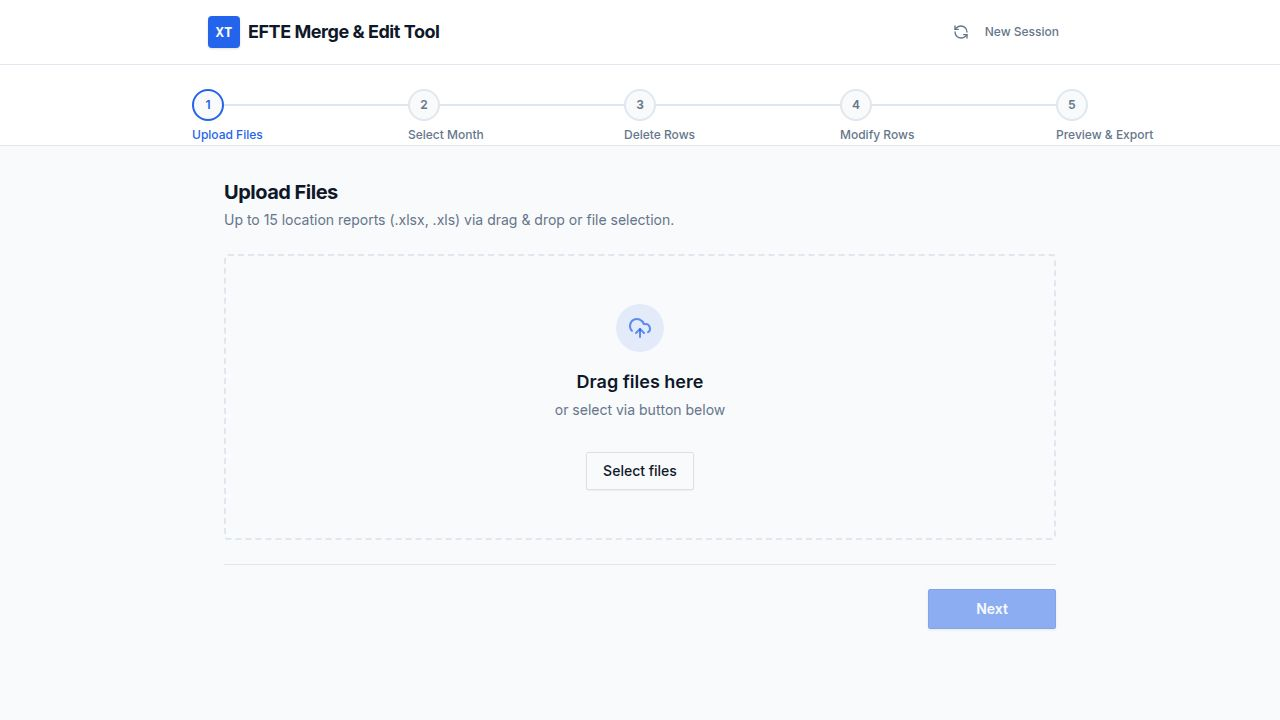
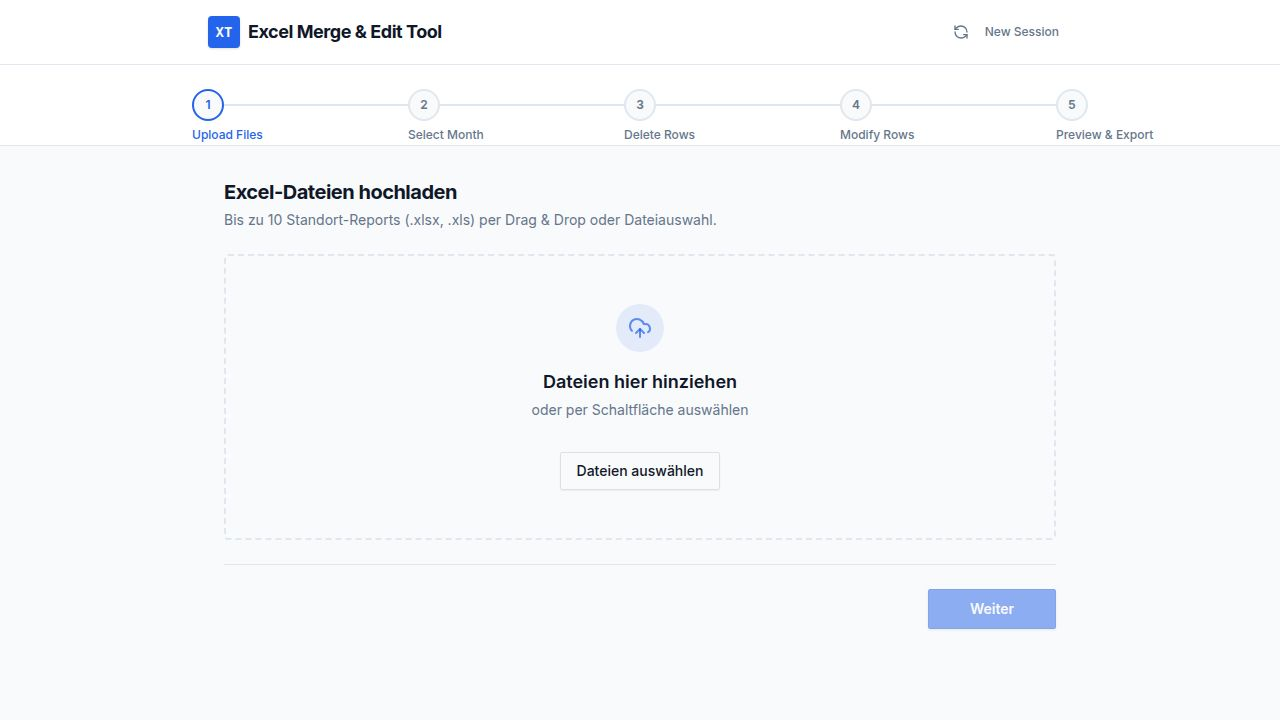
Restored to 'c005823ac366d2557e2f5bc7bdbd142439d67086'
Replit-Restored-To: c005823ac366d2557e2f5bc7bdbd142439d67086

diff --git a/artifacts/excel-tool/src/components/wizard/StepModifyRows.tsx b/artifacts/excel-tool/src/components/wizard/StepModifyRows.tsx
@@ -6,11 +6,6 @@ import { Plus, X, Calculator } from "lucide-react";
 import { Select, SelectContent, SelectItem, SelectTrigger, SelectValue } from "@/components/ui/select";
 import { Table, TableBody, TableCell, TableHead, TableHeader, TableRow } from "@/components/ui/table";
 
-interface RowLabel {
-  rowNumber: number;
-  label: string;
-}
-
 interface RowCurrentValue {
   rowNumber: number;
   hours: number | null;
@@ -46,15 +41,7 @@ export function StepModifyRows({ session, sessionId, onNext, onBack, refreshSess
   );
   const [currentValues, setCurrentValues] = useState<ValuesMap>({});
   const [isFetchingValues, setIsFetchingValues] = useState(false);
-  const [rowLabels, setRowLabels] = useState<RowLabel[]>([]);
   const { mutate: updateSession, isPending } = useUpdateSession();
-
-  useEffect(() => {
-    fetch(`/api/sessions/${sessionId}/row-list`)
-      .then((r) => r.json())
-      .then((data: { rows: RowLabel[] }) => setRowLabels(data.rows ?? []))
-      .catch(() => {});
-  }, [sessionId]);
 
   const locations = Array.from(new Set(session.files.map((f) => f.locationName).filter(Boolean)));
 
@@ -161,6 +148,7 @@ export function StepModifyRows({ session, sessionId, onNext, onBack, refreshSess
             <Table>
               <TableHeader>
                 <TableRow className="bg-muted/30">
+                  <TableHead className="min-w-[180px]">Remarks</TableHead>
                   <TableHead className="min-w-[190px]">Location</TableHead>
                   <TableHead className="min-w-[90px]">Row</TableHead>
                   <TableHead className="min-w-[80px]">+/−</TableHead>
@@ -174,7 +162,6 @@ export function StepModifyRows({ session, sessionId, onNext, onBack, refreshSess
                   <TableHead className="bg-blue-50/60 text-blue-700/80 text-xs whitespace-nowrap">Cur. EFTE</TableHead>
                   <TableHead className="bg-primary/5 border-l text-primary/80 text-xs whitespace-nowrap">New Hours</TableHead>
                   <TableHead className="bg-primary/5 text-primary/80 text-xs whitespace-nowrap">New EFTE</TableHead>
-                  <TableHead className="min-w-[160px] text-xs">Remarks</TableHead>
                   <TableHead className="w-8"></TableHead>
                 </TableRow>
               </TableHeader>
@@ -188,6 +175,17 @@ export function StepModifyRows({ session, sessionId, onNext, onBack, refreshSess
 
                   return (
                     <TableRow key={index} className={isAllLocations ? "bg-amber-50/30" : ""}>
+                      {/* Remarks */}
+                      <TableCell>
+                        <Input
+                          type="text"
+                          value={row.remarks ?? ""}
+                          onChange={(e) => updateRow(index, "remarks", e.target.value)}
+                          className="w-full text-xs"
+                          placeholder="Optional remark…"
+                        />
+                      </TableCell>
+
                       {/* Location */}
                       <TableCell>
                         <Select
@@ -209,33 +207,14 @@ export function StepModifyRows({ session, sessionId, onNext, onBack, refreshSess
 
                       {/* Row number */}
                       <TableCell>
-                        <Select
-                          value={row.rowNumber > 0 ? String(row.rowNumber) : ""}
-                          onValueChange={(val) => updateRow(index, "rowNumber", parseInt(val, 10))}
-                        >
-                          <SelectTrigger className="text-xs font-mono min-w-[150px]">
-                            <SelectValue placeholder="Select row…">
-                              {row.rowNumber > 0
-                                ? (() => {
-                                    const found = rowLabels.find((r) => r.rowNumber === row.rowNumber);
-                                    return found ? `${found.rowNumber}: ${found.label}` : `Row ${row.rowNumber}`;
-                                  })()
-                                : "Select row…"}
-                            </SelectValue>
-                          </SelectTrigger>
-                          <SelectContent className="max-h-72">
-                            {rowLabels.length === 0 ? (
-                              <SelectItem value="0" disabled>Loading…</SelectItem>
-                            ) : (
-                              rowLabels.map((rl) => (
-                                <SelectItem key={rl.rowNumber} value={String(rl.rowNumber)} className="text-xs font-mono">
-                                  <span className="text-muted-foreground mr-2 tabular-nums">{rl.rowNumber}</span>
-                                  {rl.label}
-                                </SelectItem>
-                              ))
-                            )}
-                          </SelectContent>
-                        </Select>
+                        <Input
+                          type="number"
+                          min={1}
+                          value={row.rowNumber || ""}
+                          onChange={(e) => updateRow(index, "rowNumber", parseInt(e.target.value) || 0)}
+                          className="w-full font-mono text-sm font-semibold [appearance:textfield] [&::-webkit-inner-spin-button]:appearance-none [&::-webkit-outer-spin-button]:appearance-none"
+                          placeholder="#"
+                        />
                       </TableCell>
 
                       {/* +/- */}
@@ -319,17 +298,6 @@ export function StepModifyRows({ session, sessionId, onNext, onBack, refreshSess
                       {/* New EFTE */}
                       <TableCell className="bg-primary/5 align-middle text-xs font-mono font-semibold text-primary whitespace-nowrap">
                         {isFetchingValues ? "…" : fmt(newEfte)}
-                      </TableCell>
-
-                      {/* Remarks */}
-                      <TableCell>
-                        <Input
-                          type="text"
-                          value={row.remarks ?? ""}
-                          onChange={(e) => updateRow(index, "remarks", e.target.value)}
-                          className="w-full text-xs min-w-[150px]"
-                          placeholder="Optional remark…"
-                        />
                       </TableCell>
 
                       {/* Remove */}

diff --git a/artifacts/excel-tool/src/components/wizard/StepDeleteRows.tsx b/artifacts/excel-tool/src/components/wizard/StepDeleteRows.tsx
@@ -1,13 +1,9 @@
-import { useState, useEffect } from "react";
+import { useState } from "react";
 import { Button } from "@/components/ui/button";
+import { Input } from "@/components/ui/input";
 import { Session, useUpdateSession, DeleteRowConfig } from "@workspace/api-client-react";
 import { Plus, X, Trash2 } from "lucide-react";
-import { Select, SelectContent, SelectItem, SelectTrigger, SelectValue } from "@/components/ui/select";
-
-interface RowLabel {
-  rowNumber: number;
-  label: string;
-}
+import { Label } from "@/components/ui/label";
 
 interface StepDeleteRowsProps {
   session: Session;
@@ -23,15 +19,7 @@ export function StepDeleteRows({ session, sessionId, onNext, onBack, refreshSess
   const [rows, setRows] = useState<DeleteRowConfig[]>(
     session.deleteRows && session.deleteRows.length > 0 ? session.deleteRows : DEFAULT_ROWS
   );
-  const [rowLabels, setRowLabels] = useState<RowLabel[]>([]);
   const { mutate: updateSession, isPending } = useUpdateSession();
-
-  useEffect(() => {
-    fetch(`/api/sessions/${sessionId}/row-list`)
-      .then((r) => r.json())
-      .then((data: { rows: RowLabel[] }) => setRowLabels(data.rows ?? []))
-      .catch(() => {});
-  }, [sessionId]);
 
   const addRow = () => {
     setRows([...rows, { rowNumber: 0 }]);
@@ -41,9 +29,10 @@ export function StepDeleteRows({ session, sessionId, onNext, onBack, refreshSess
     setRows(rows.filter((_, i) => i !== index));
   };
 
-  const updateRow = (index: number, rowNumber: number) => {
+  const updateRow = (index: number, val: string) => {
+    const num = parseInt(val, 10);
     const newRows = [...rows];
-    newRows[index] = { rowNumber };
+    newRows[index].rowNumber = isNaN(num) ? 0 : num;
     setRows(newRows);
   };
 
@@ -60,17 +49,12 @@ export function StepDeleteRows({ session, sessionId, onNext, onBack, refreshSess
     );
   };
 
-  const rowLabel = (rowNumber: number) => {
-    const found = rowLabels.find((r) => r.rowNumber === rowNumber);
-    return found ? `Row ${found.rowNumber}: ${found.label}` : rowNumber > 0 ? `Row ${rowNumber}` : "";
-  };
-
   return (
     <div className="space-y-6">
       <div>
         <h2 className="text-xl font-bold tracking-tight">Delete Rows</h2>
         <p className="text-sm text-muted-foreground mt-1">
-          Specify rows to clear. Hours and EFTE cells will be set to 0 for {session.selectedMonth} across all sheets.
+          Specify row numbers to clear. Hours and EFTE cells will be set to 0 for the selected month ({session.selectedMonth}) across all sheets.
         </p>
       </div>
 
@@ -95,33 +79,27 @@ export function StepDeleteRows({ session, sessionId, onNext, onBack, refreshSess
             <div className="grid gap-3 sm:grid-cols-2 md:grid-cols-3">
               {rows.map((row, index) => (
                 <div key={index} className="flex items-center space-x-2 group">
-                  <Select
-                    value={row.rowNumber > 0 ? String(row.rowNumber) : ""}
-                    onValueChange={(val) => updateRow(index, parseInt(val, 10))}
-                  >
-                    <SelectTrigger className="flex-1 text-sm font-mono">
-                      <SelectValue placeholder="Select row…">
-                        {row.rowNumber > 0 ? rowLabel(row.rowNumber) : "Select row…"}
-                      </SelectValue>
-                    </SelectTrigger>
-                    <SelectContent className="max-h-72">
-                      {rowLabels.length === 0 ? (
-                        <SelectItem value="0" disabled>Loading…</SelectItem>
-                      ) : (
-                        rowLabels.map((rl) => (
-                          <SelectItem key={rl.rowNumber} value={String(rl.rowNumber)} className="text-xs font-mono">
-                            <span className="text-muted-foreground mr-2 tabular-nums">{rl.rowNumber}</span>
-                            {rl.label}
-                          </SelectItem>
-                        ))
-                      )}
-                    </SelectContent>
-                  </Select>
+                  <div className="relative flex-1">
+                    <Label htmlFor={`row-${index}`} className="sr-only">Row number</Label>
+                    <div className="absolute inset-y-0 left-0 flex items-center pl-3 pointer-events-none">
+                      <span className="text-muted-foreground text-sm font-medium">Row</span>
+                    </div>
+                    <Input
+                      id={`row-${index}`}
+                      type="number"
+                      min={1}
+                      value={row.rowNumber || ""}
+                      onChange={(e) => updateRow(index, e.target.value)}
+                      className="pl-14 font-mono"
+                      placeholder="e.g. 42"
+                    />
+                  </div>
                   <Button
                     variant="ghost"
                     size="icon"
                     onClick={() => removeRow(index)}
                     className="shrink-0 text-muted-foreground hover:text-destructive hover:bg-destructive/10"
+                    title="Remove row"
                   >
                     <X className="w-4 h-4" />
                   </Button>

diff --git a/artifacts/api-server/src/lib/excelProcessor.ts b/artifacts/api-server/src/lib/excelProcessor.ts
@@ -330,35 +330,6 @@ export async function previewChanges(
   return { deletePreview, modifyPreview };
 }
 
-export interface RowLabel {
-  rowNumber: number;
-  label: string;
-}
-
-/**
- * Reads column A of the first uploaded file and returns all rows that have
- * a non-empty text value — used to populate the row-number dropdown in the UI.
- */
-export async function listDataRows(files: UploadedFile[]): Promise<RowLabel[]> {
-  if (files.length === 0) return [];
-  const file = files[0];
-  const workbook = XLSX.readFile(file.filePath, { cellFormula: false });
-  const sheetName = workbook.SheetNames[0];
-  if (!sheetName) return [];
-  const ws = workbook.Sheets[sheetName];
-  if (!ws || !ws["!ref"]) return [];
-  const range = XLSX.utils.decode_range(ws["!ref"]);
-  const result: RowLabel[] = [];
-  for (let r = 0; r <= range.e.r; r++) {
-    const cellA = ws[XLSX.utils.encode_cell({ r, c: 0 })];
-    if (!cellA || cellA.v === null || cellA.v === undefined) continue;
-    const label = String(cellA.v).trim();
-    if (!label) continue;
-    result.push({ rowNumber: r + 1, label });
-  }
-  return result;
-}
-
 export async function buildMasterExcel(
   files: UploadedFile[],
   month: string,

diff --git a/artifacts/api-server/src/routes/sessions/index.ts b/artifacts/api-server/src/routes/sessions/index.ts
@@ -10,7 +10,7 @@ import {
   type DeleteRowConfig,
   type ModifyRowConfig,
 } from "../../lib/sessionStore.js";
-import { analyzeExcelFile, previewChanges, buildMasterExcel, readCurrentValues, listDataRows } from "../../lib/excelProcessor.js";
+import { analyzeExcelFile, previewChanges, buildMasterExcel, readCurrentValues } from "../../lib/excelProcessor.js";
 import {
   GetSessionParams,
   UpdateSessionParams,
@@ -226,23 +226,6 @@ router.post("/sessions/:sessionId/read-values", async (req, res): Promise<void> 
   );
 
   res.json({ values });
-});
-
-// GET /sessions/:sessionId/row-list
-router.get("/sessions/:sessionId/row-list", async (req, res): Promise<void> => {
-  const raw = Array.isArray(req.params.sessionId) ? req.params.sessionId[0] : req.params.sessionId;
-  const params = GetSessionParams.safeParse({ sessionId: raw });
-  if (!params.success) {
-    res.status(400).json({ error: params.error.message });
-    return;
-  }
-  const session = getSession(params.data.sessionId);
-  if (!session) {
-    res.status(404).json({ error: "Session not found" });
-    return;
-  }
-  const rows = await listDataRows(session.files);
-  res.json({ rows });
 });
 
 // POST /sessions/:sessionId/preview

diff --git a/artifacts/api-server/src/lib/pdfGenerator.ts b/artifacts/api-server/src/lib/pdfGenerator.ts
@@ -14,7 +14,7 @@ interface PreviewModifyRow {
   currentEfte?: number | null;
   newHours?: number | null;
   newEfte?: number | null;
-  remarks?: string;
+  remarks?: string | null;
 }
 
 interface PreviewData {
@@ -111,9 +111,8 @@ export function generateReportPdf(
       const changed =
         row.newHours !== row.currentHours || row.newEfte !== row.currentEfte;
       const marker = changed ? " *" : "  ";
-      const remarks = row.remarks ?? "";
       lines.push(
-        `${col(String(row.rowNumber), 6)}${col(row.locationName, 28)}${col(fmt(row.currentHours), 12)}${col(fmt(row.currentEfte), 12)}${col(fmt(row.newHours), 12)}${col(fmt(row.newEfte), 12)}${remarks}${marker}`,
+        `${col(String(row.rowNumber), 6)}${col(row.locationName, 28)}${col(fmt(row.currentHours), 12)}${col(fmt(row.currentEfte), 12)}${col(fmt(row.newHours), 12)}${col(fmt(row.newEfte), 12)}${row.remarks ?? ""}${marker}`,
       );
     }
     lines.push("");